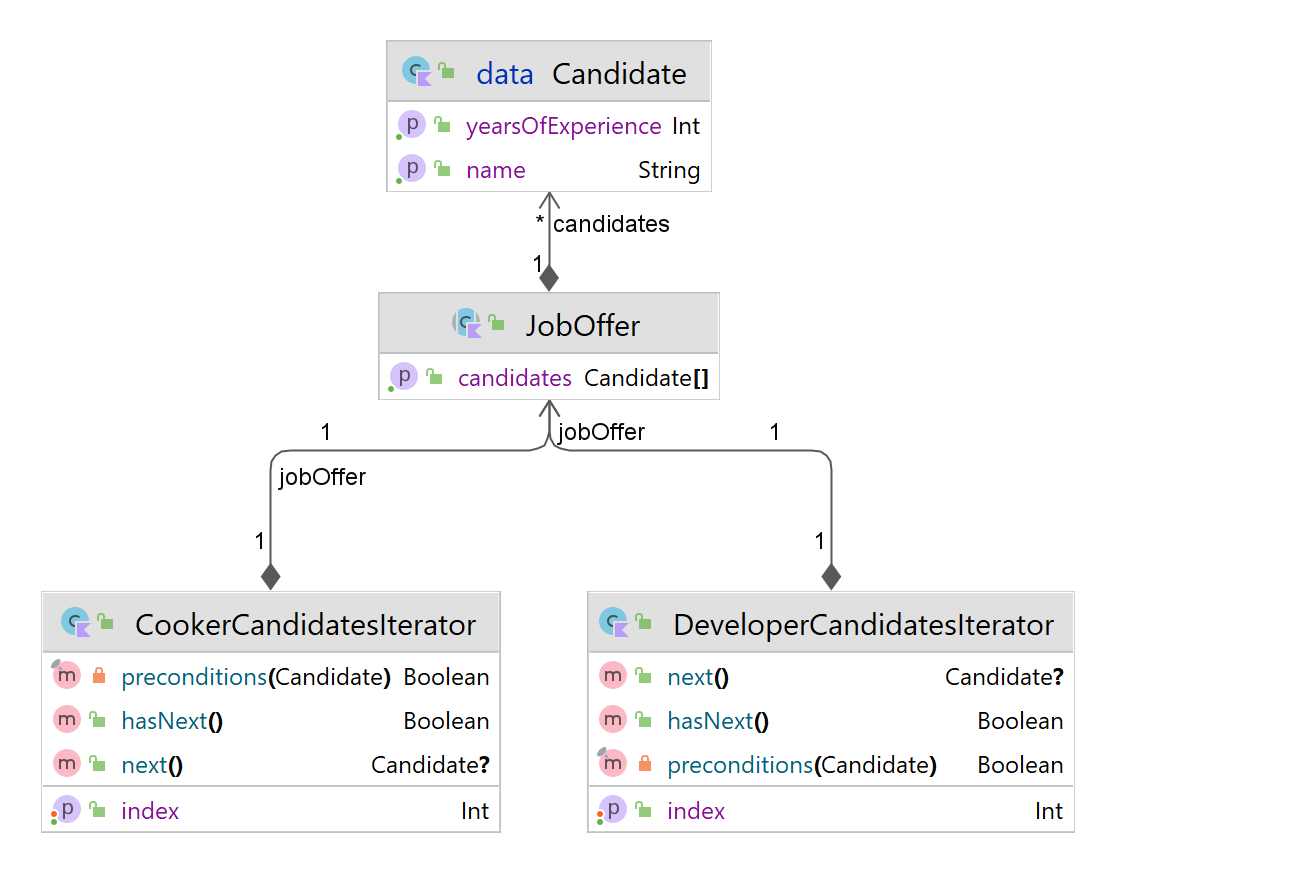
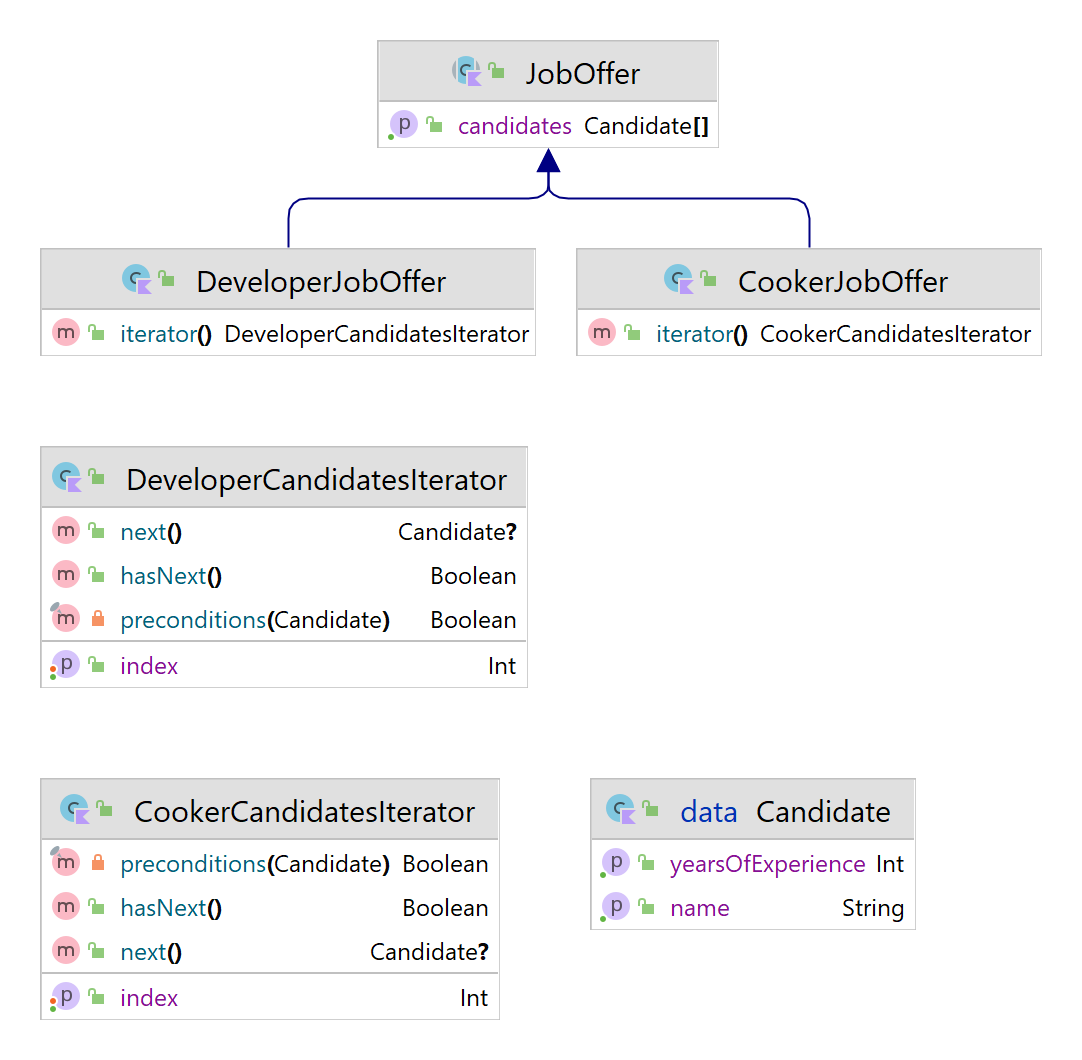
adiciona o iterable ao joboffer

Changed region(s): [[0.0305, 0.0309, 0.976, 0.9577]]

diff --git a/src/behaviour/iterator/Main.kt b/src/behaviour/iterator/Main.kt
@@ -2,11 +2,13 @@ package behaviour.iterator
 
 import behaviour.iterator.iterators.CookerCandidatesIterator
 import behaviour.iterator.iterators.DeveloperCandidatesIterator
+import behaviour.iterator.offers.CookerJobOffer
+import behaviour.iterator.offers.DeveloperJobOffer
+import behaviour.iterator.offers.JobOffer
 
 fun main() {
-    val cookerJobOffer = JobOffer(zak, alice, sara, anna)
-
-    val cookersIterator = CookerCandidatesIterator(cookerJobOffer)
+    val cookerJobOffer = CookerJobOffer(zak, alice, sara, anna)
+    val cookersIterator = cookerJobOffer.iterator()
 
     println("Cookers with preconditions to the job offer:")
     while (cookersIterator.hasNext()) {
@@ -15,8 +17,8 @@ fun main() {
 
     print("\n")
 
-    val developerJobOffer = JobOffer(zak, alice, sara, anna)
-    val developersIterator = DeveloperCandidatesIterator(developerJobOffer)
+    val developerJobOffer = DeveloperJobOffer(zak, alice, sara, anna)
+    val developersIterator = developerJobOffer.iterator()
 
     println("Developers with preconditions to the job offer:")
     while (developersIterator.hasNext()) {

diff --git a/src/behaviour/iterator/offers/DeveloperJobOffer.kt b/src/behaviour/iterator/offers/DeveloperJobOffer.kt
@@ -1,0 +1,11 @@
+package behaviour.iterator.offers
+
+import behaviour.iterator.Candidate
+import behaviour.iterator.iterators.CookerCandidatesIterator
+import behaviour.iterator.iterators.DeveloperCandidatesIterator
+
+class DeveloperJobOffer(
+    vararg candidates: Candidate
+): JobOffer(*candidates) {
+    override fun iterator(): DeveloperCandidatesIterator = DeveloperCandidatesIterator(jobOffer = this)
+}

diff --git a/src/behaviour/iterator/offers/CookerJobOffer.kt b/src/behaviour/iterator/offers/CookerJobOffer.kt
@@ -1,0 +1,11 @@
+package behaviour.iterator.offers
+
+import behaviour.iterator.Candidate
+import behaviour.iterator.iterators.CookerCandidatesIterator
+
+class CookerJobOffer(
+    vararg candidates: Candidate
+): JobOffer(*candidates) {
+
+    override fun iterator(): CookerCandidatesIterator = CookerCandidatesIterator(jobOffer = this)
+}

diff --git a/src/behaviour/iterator/offers/JobOffer.kt b/src/behaviour/iterator/offers/JobOffer.kt
@@ -1,9 +1,9 @@
-package behaviour.iterator
+package behaviour.iterator.offers
 
 import behaviour.iterator.Candidate
 
-class JobOffer(
+abstract class JobOffer(
     vararg candidates: Candidate
-) {
+): Iterable<Candidate?> {
     val candidates = candidates
 }

diff --git a/src/behaviour/iterator/iterators/DeveloperCandidatesIterator.kt b/src/behaviour/iterator/iterators/DeveloperCandidatesIterator.kt
@@ -1,7 +1,7 @@
 package behaviour.iterator.iterators
 
 import behaviour.iterator.Candidate
-import behaviour.iterator.JobOffer
+import behaviour.iterator.offers.JobOffer
 
 class DeveloperCandidatesIterator(
     private val jobOffer: JobOffer

diff --git a/src/behaviour/iterator/iterators/CookerCandidatesIterator.kt b/src/behaviour/iterator/iterators/CookerCandidatesIterator.kt
@@ -1,7 +1,7 @@
 package behaviour.iterator.iterators
 
 import behaviour.iterator.Candidate
-import behaviour.iterator.JobOffer
+import behaviour.iterator.offers.JobOffer
 
 class CookerCandidatesIterator(
     private val jobOffer: JobOffer
